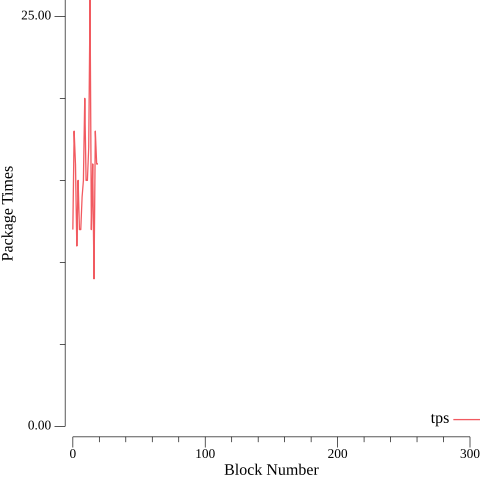
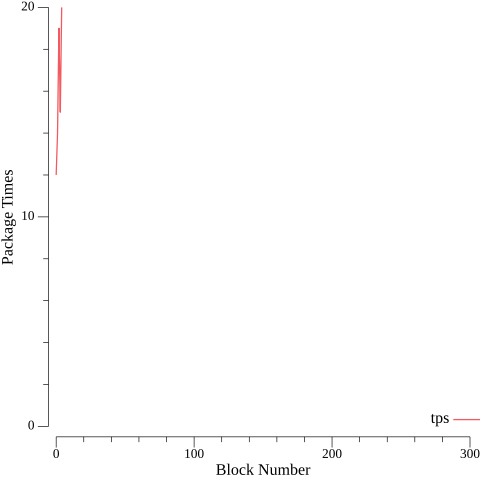
优化缓存

diff --git a/cnfScript/code.js b/cnfScript/code.js
@@ -93,27 +93,35 @@ var Testin = {
         }
     },
 
+    // 读取所有区块，重新构建一个Status出来
+    reloadAllBlock : function(){
+        for(var i=0;i<Status.Miners.length;i++) {
+            if (Status.Reputations[Status.Miners[i]] == undefined) {
+                Status.Reputations[Status.Miners[i]] = 0.0
+            }
+        }
+        var topBlock = JSON.parse(MC_GetTopBlock())
+        var blocks = MC_GetBlockByRange(1, parseInt(topBlock.Number))
+        for (var i=0;i<blocks.length;i++) {
+            Testin.loadBlock(blocks[i])
+        }
+    },
+
     // 全量读取区块，构造整体的世界状态。非常耗性能，上线时必须做缓存处理
     BuildWorldStatus : function(param){ 
         var worldStatus = MC_GetCache("worldStatus")
         if(worldStatus == "") { // 这种就是网络启动的时候会调用一次
             // 初始化矿工信誉值
-            for(var i=0;i<Status.Miners.length;i++) {
-                if (Status.Reputations[Status.Miners[i]] == undefined) {
-                    Status.Reputations[Status.Miners[i]] = 0.0
-                }
-            }
-            var topBlock = JSON.parse(MC_GetTopBlock())
-            var blocks = MC_GetBlockByRange(1, parseInt(topBlock.Number))
-            for (var i=0;i<blocks.length;i++) {
-                Testin.loadBlock(blocks[i])
-            }
-
-
+            Testin.reloadAllBlock()
             MC_SetCache("worldStatus", JSON.stringify(Status))
         } else { // 这里比较常被调用
             Status = JSON.parse(worldStatus)
         }
+
+        // 有时候需要重新构造一次区块数据，比如更新算法后
+        // if (param != undefined && param.ReloadAllBlock == true) {
+        //     Testin.ReloadAllBlock()
+        // }
 
         // 缓存中的合法交易也要加入其中，防止交易重复提交
         // 这里不需要考虑缓存交易中存在 注册企业+发布任务 这种交易组合
@@ -1204,7 +1212,6 @@ exports.DoPackageIntention = function(params) {
 // 矿工节点收集到2/3个打包意向后，对有意向的出块者进行排名，广播第一名出来
 // @params.From
 // @params.Rank_1 string,string 第一名的NodeID，可用逗号分隔并列，并列NodeID通过哈希环随机算法进行排序
-// @params.
 exports.ShareIntentionRank = function(params){
     var intentionRank = Testin.Consensus.IntentionRank.New(params.IntentionRank)
     if (intentionRank.CheckSign() == false ) {
@@ -1314,6 +1321,24 @@ function getMinerOfThisRound(term){
     var randomMinerIndex = MC_Mod(hashRangeStartNum, rank1MaxMiner.length)
 
     return rank1MaxMiner[randomMinerIndex]
+}
+
+// 1 master端收到request，就广播preprepare，让每个节点都缓存
+// 一个preprepare包
+exports.DoPBFTPreprepare = function(params) {
+
+}
+
+// 2 矿工持续监听preprepare包，如果有，就拉下来签名，并发布prepare包
+exports.DoPBFTPrepare = function(params) {
+
+}
+
+// 3 矿工发布prepare包后，持续监听prepare包，当prepare包达到2/3个数量时
+// 就发布commit包，然后监听最新区块
+// DoPBFTCommit 每次被调用，就查看缓存中commit是否达到2/3，如果达到2/3，就addNewBlock
+exports.DoPBFTCommit = function(params) {
+
 }
 
 // 新区块

diff --git a/tpsTesting/testScript.js b/tpsTesting/testScript.js
@@ -46,12 +46,12 @@ function doPost(index){
         data["Params"]["Signature"] = signature
 
         // 批量生成
-        for(var i=0;i<10;i++) {
+        for(var i=0;i<30;i++) {
             var tempParam = {
                 "MC_Call" : "PublishReportByHacker", // 调用合约脚本
                 From: "04527ac664e9b0141a4a5a059b65d9341a",
                 ReportPath: "QmNnGUHwagNAzhBUwGvsfCMvuVKfL294eKPu1r2juXVN3J",
[2 lines of base64/hex data omitted]
                 Ts: now.toString()
             }
             tempParam["Ts"] = (parseInt(now) + i).toString()

diff --git a/tpsTesting/analysis.go b/tpsTesting/analysis.go
@@ -72,7 +72,7 @@ func (a *Analysis) CalculateTpsPerBlock() {
 
 	var tpsDrawer Drawer = Drawer{}
 	tpsDrawer.YLabel = "TPS (transaction per second)"
-	tpsDrawer.Build("bussiness_tps", []float64{0, 0, 15, 300})
+	tpsDrawer.Build("bussiness_tps", []float64{0, 0, 40, 100})
 	tpsDrawer.SetPoint(tpsPoints, "tps")
 	tpsDrawer.DoDraw()
 }

diff --git a/miner/Modules/PBFT.go b/miner/Modules/PBFT.go
@@ -1,0 +1,1 @@
+package modules
